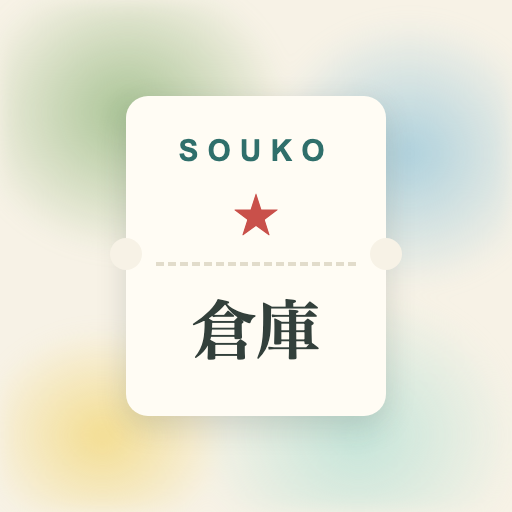
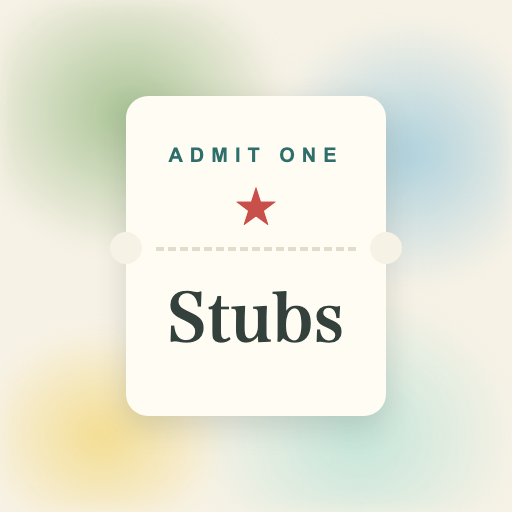
アプリ名を「Stubs」に変更、アイコンを半券デザインに

diff --git a/index.html b/index.html
@@ -5,10 +5,10 @@
 <meta name="viewport" content="width=device-width, initial-scale=1, viewport-fit=cover">
 <meta name="theme-color" content="#f7f2e6">
 <meta name="apple-mobile-web-app-capable" content="yes">
-<meta name="apple-mobile-web-app-title" content="倉庫">
+<meta name="apple-mobile-web-app-title" content="Stubs">
 <link rel="apple-touch-icon" href="icon.png">
 <link rel="manifest" href="manifest.json">
-<title>映画と本の倉庫</title>
+<title>Stubs — 映画と本の半券</title>
 <link rel="preconnect" href="https://fonts.googleapis.com">
 <link rel="preconnect" href="https://fonts.gstatic.com" crossorigin>
 <link href="https://fonts.googleapis.com/css2?family=Shippori+Mincho:wght@500;700&family=Zen+Maru+Gothic:wght@400;500;700&family=Klee+One:wght@600&display=swap" rel="stylesheet">
@@ -226,7 +226,7 @@
 <div id="app" style="display:none">
   <!-- ホーム -->
   <section class="view on" id="v-home"><div class="wrap">
-    <div class="page-head"><div><div class="eyebrow">SOUKO <span id="h-year"></span></div></div><button class="gear" onclick="openSettings()">⚙</button></div>
+    <div class="page-head"><div><div class="eyebrow">STUBS <span id="h-year"></span></div></div><button class="gear" onclick="openSettings()">⚙</button></div>
     <div class="hero">
       <div class="sun-blob"></div>
       <div class="row"><div><span class="big" id="h-year-n">0</span><span class="unit">本</span></div><div class="sep"></div><div><span class="mid" id="h-month-n">0</span><span class="unit" style="color:var(--ink)">本</span></div></div>
@@ -853,7 +853,7 @@ window.addEventListener('resize', () => current === 'map' && drawMap());
 
 /* ================= 設定・はじめての接続 ================= */
 function setupHTML(inSheet) {
-  return `${inSheet ? '' : '<div class="eyebrow">SOUKO</div><h2 style="font-size:28px;margin:6px 0 4px">映画と本の倉庫</h2>'}
+  return `${inSheet ? '' : '<div class="eyebrow">FILM &amp; BOOK</div><h2 style="font-size:40px;margin:6px 0 4px;letter-spacing:.04em">Stubs</h2><div class="muted" style="margin-bottom:10px">映画と本の半券</div>'}
   <p class="muted" style="line-height:1.8">記録はGitHubの非公開の場所（<code>${esc(cfg.repo)}</code>）に保存されます。この端末で1回だけ、合言葉（アクセス用キー）を入れてください。</p>
   <ol>
     <li><a href="https://github.com/settings/personal-access-tokens/new" target="_blank">キーの作成ページ</a>を開く</li>

diff --git a/README.md b/README.md
@@ -1,4 +1,4 @@
-# 倉庫 — 映画と本の記録
+# Stubs — 映画と本の半券
 
 観た映画・読んだ本を半券として残し、自分の引き出しに整理して、作品どうしのつながりを地図にする個人用アプリ。
 
